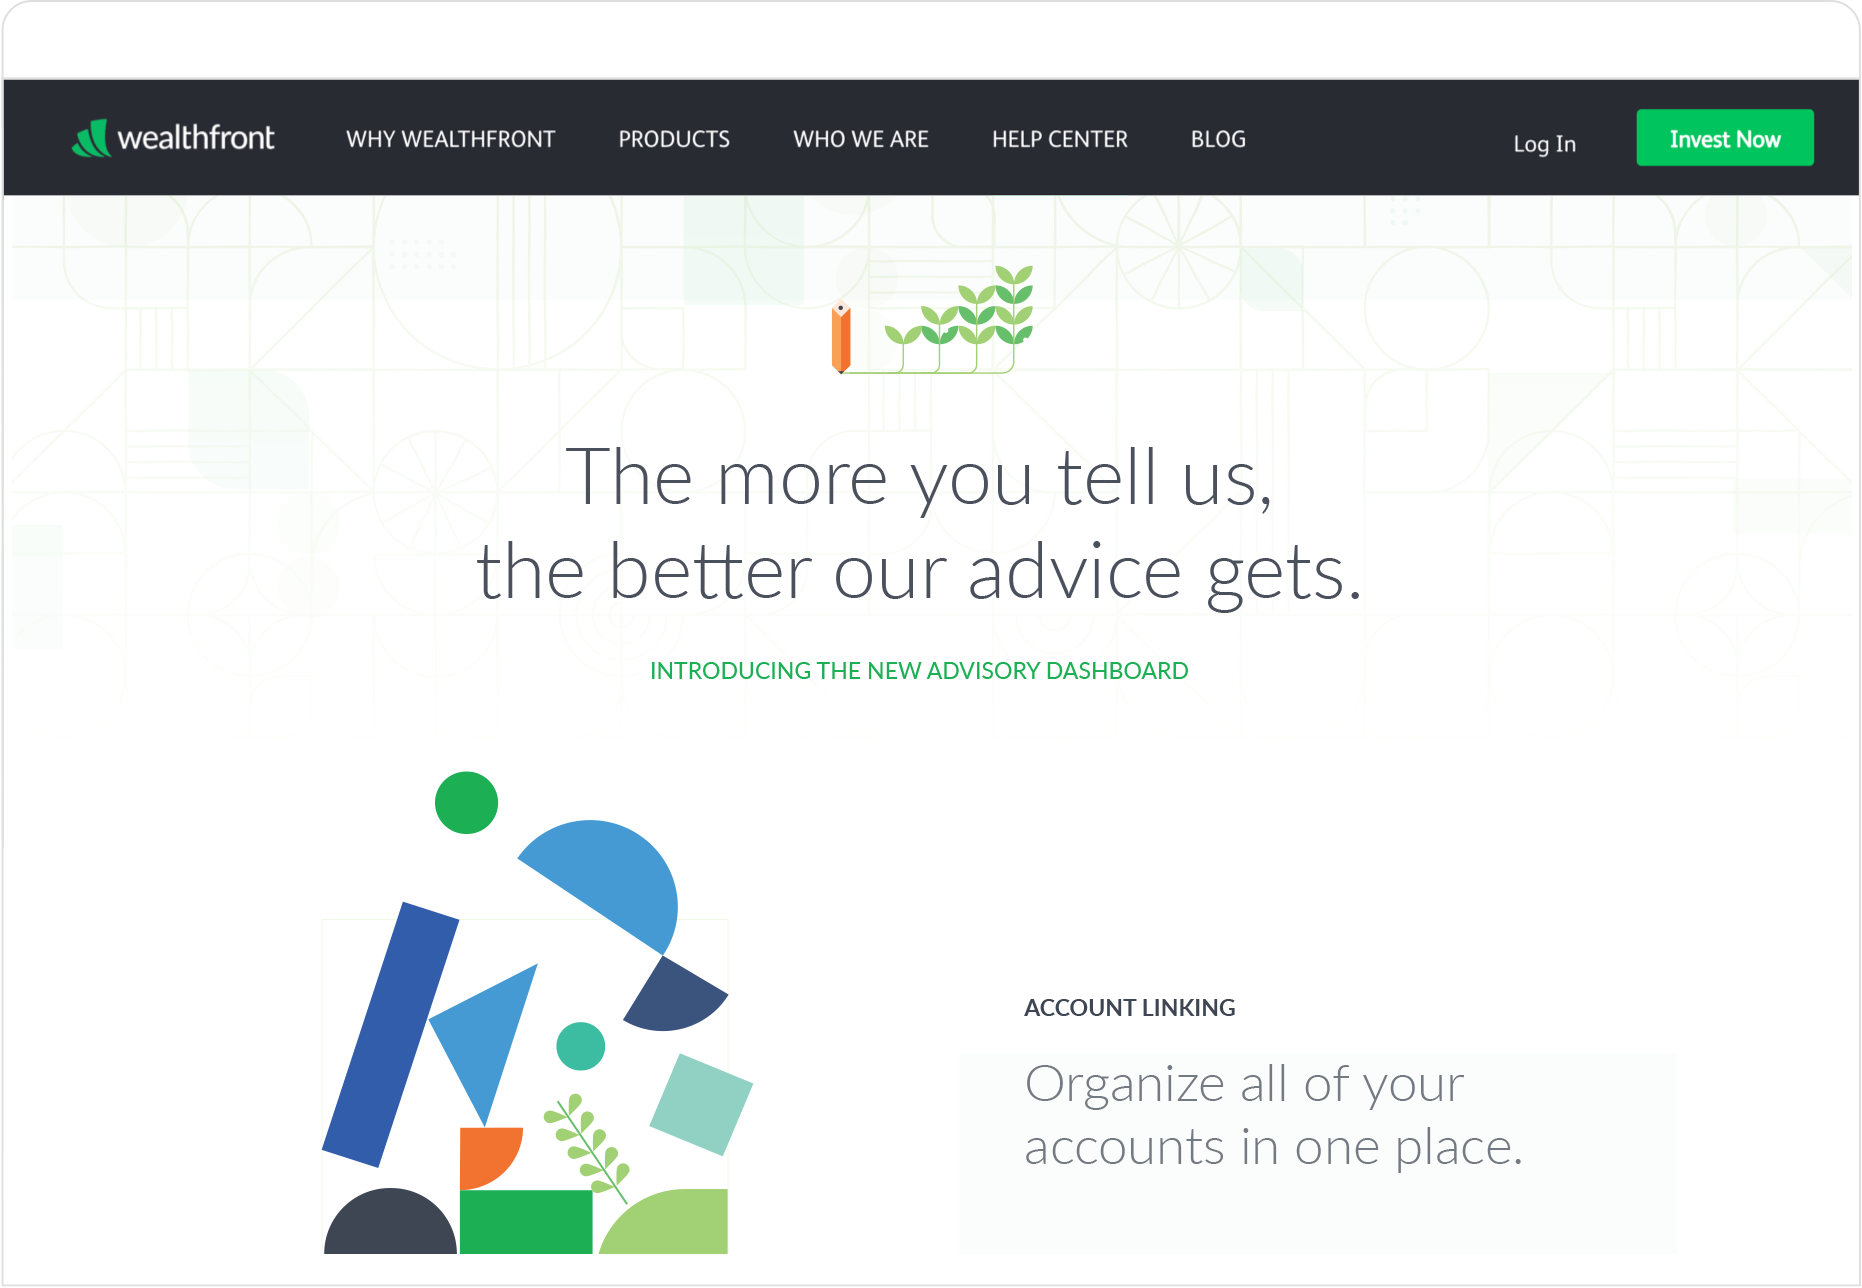
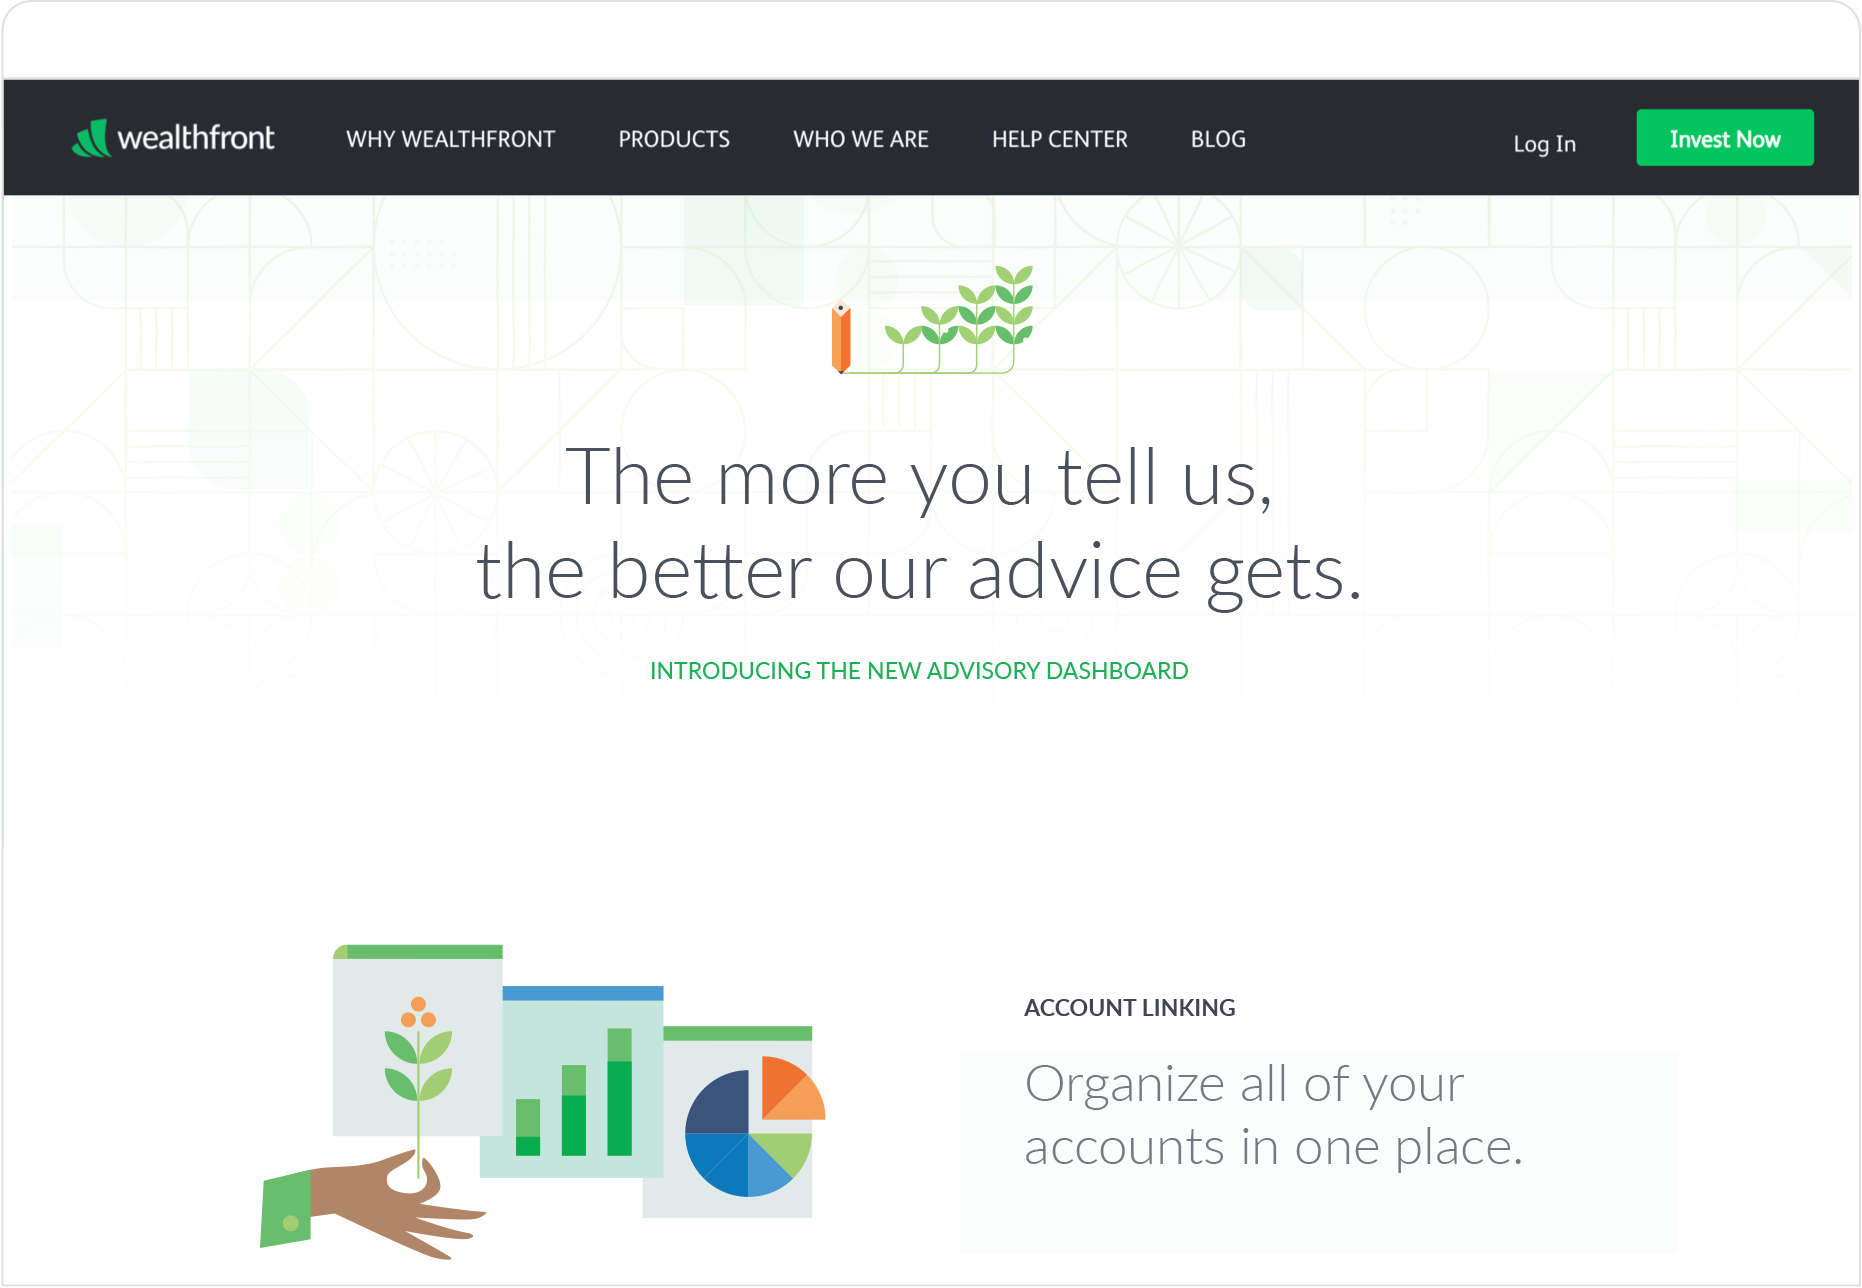
f

Changed region(s): [[0.1246, 0.5901, 0.4672, 0.9938]]

diff --git a/wealthfront/index.html b/wealthfront/index.html
@@ -24,42 +24,69 @@ layout: page
 	
 
 	<p class="text">As a tech company within the financial industry, Wealthfront wanted to position itself as a more relatable and human option to large institutions, but still connote the trustworthiness of a financial institution.</p>
+	</div>
+</div>
+
+<div style="background-image: linear-gradient(transparent 180px, #9CD574 0px);">
+	<div class="wrap" style="padding-bottom:30px">
+		<img src="img/header_00.png"> 
+	</div>
+</div>
 	
-	<img src="img/intro_02.png"> 
+<div class="wrap">
+	<div class="pages content">	
+			
 	
 
 
 	<p class="sectionHeader">The Story</p>
 
-	<p class="text">If you look carefully at every brand touchpoint - whether the product in-app onboarding, the launch materials, or the marketing site - you will notice the same two characters appearing in every single illustrated photo. You see this boy and girl, named Owen and Nora, through their life, starting as two friends who attend camp as children, grow up together, and finally get married. Along the way we also see their playful dog grow up as well.</p>
+	<p class="text">Lorem ipsum dolor isit.</p>
 
 	<img src="img/moodboard_01.png"> 
 	<img src="img/moodboard_02.png"> 
+	
+	<img style="width:580px" src="img/char_00.png"> 
+	
+	<p class="sectionHeader">Characters</p>
+
+	<p class="text">Lorem ipsum dolor isit.</p>
+	
+	<img src="img/char_02.png"> 
+	<img src="img/char_03.png"> 
 	<img src="img/char_01.png"> 
 
-
-
-	<img src="img/grid_01.png"> 
-	<img src="img/grid_02.png"> 
-	
+ 
 	<img src="img/set_01.png"> 
 	<img src="img/set_02.png"> 
 	<img src="img/set_03.png"> 
 
+	<img src="img/machine_02.png"> 
+	<img src="img/machine_01.png"> 
+
+	<img src="img/intro_02.png"> 
+	
+	
+	<p class="sectionHeader">System</p>
+
+	<p class="text">Lorem ipsum dolor isit.</p>
+	
+	<img src="img/icons.png"> 
+	<img src="img/web_04.png">
+	
 	<img src="img/grid_01.png"> 
 	<img src="img/grid_02.png"> 
 
 	<img src="img/grid_03.png"> 
-	<img src="img/grid_04.png"> 
-	
-	
+	<img src="img/grid_04.png">
 
-	<img src="img/web_01.png"> 
 	<img src="img/web_02.png"> 
 	<img src="img/web_03.png">
 
 	
 	<p class="text"><i>Credits</i></p><i>
+		
+			<img src="img/WF_bottom.png"> 
 	
 	
 	

diff --git a/_site/wealthfront/index.html b/_site/wealthfront/index.html
@@ -175,42 +175,69 @@
 	
 
 	<p class="text">As a tech company within the financial industry, Wealthfront wanted to position itself as a more relatable and human option to large institutions, but still connote the trustworthiness of a financial institution.</p>
+	</div>
+</div>
+
+<div style="background-image: linear-gradient(transparent 180px, #9CD574 0px);">
+	<div class="wrap" style="padding-bottom:30px">
+		<img src="img/header_00.png"> 
+	</div>
+</div>
 	
-	<img src="img/intro_02.png"> 
+<div class="wrap">
+	<div class="pages content">	
+			
 	
 
 
 	<p class="sectionHeader">The Story</p>
 
-	<p class="text">If you look carefully at every brand touchpoint - whether the product in-app onboarding, the launch materials, or the marketing site - you will notice the same two characters appearing in every single illustrated photo. You see this boy and girl, named Owen and Nora, through their life, starting as two friends who attend camp as children, grow up together, and finally get married. Along the way we also see their playful dog grow up as well.</p>
+	<p class="text">Lorem ipsum dolor isit.</p>
 
 	<img src="img/moodboard_01.png"> 
 	<img src="img/moodboard_02.png"> 
+	
+	<img style="width:580px" src="img/char_00.png"> 
+	
+	<p class="sectionHeader">Characters</p>
+
+	<p class="text">Lorem ipsum dolor isit.</p>
+	
+	<img src="img/char_02.png"> 
+	<img src="img/char_03.png"> 
 	<img src="img/char_01.png"> 
 
-
-
-	<img src="img/grid_01.png"> 
-	<img src="img/grid_02.png"> 
-	
+ 
 	<img src="img/set_01.png"> 
 	<img src="img/set_02.png"> 
 	<img src="img/set_03.png"> 
 
+	<img src="img/machine_02.png"> 
+	<img src="img/machine_01.png"> 
+
+	<img src="img/intro_02.png"> 
+	
+	
+	<p class="sectionHeader">System</p>
+
+	<p class="text">Lorem ipsum dolor isit.</p>
+	
+	<img src="img/icons.png"> 
+	<img src="img/web_04.png">
+	
 	<img src="img/grid_01.png"> 
 	<img src="img/grid_02.png"> 
 
 	<img src="img/grid_03.png"> 
-	<img src="img/grid_04.png"> 
-	
-	
+	<img src="img/grid_04.png">
 
-	<img src="img/web_01.png"> 
 	<img src="img/web_02.png"> 
 	<img src="img/web_03.png">
 
 	
 	<p class="text"><i>Credits</i></p><i>
+		
+			<img src="img/WF_bottom.png"> 
 	
 	
 	
